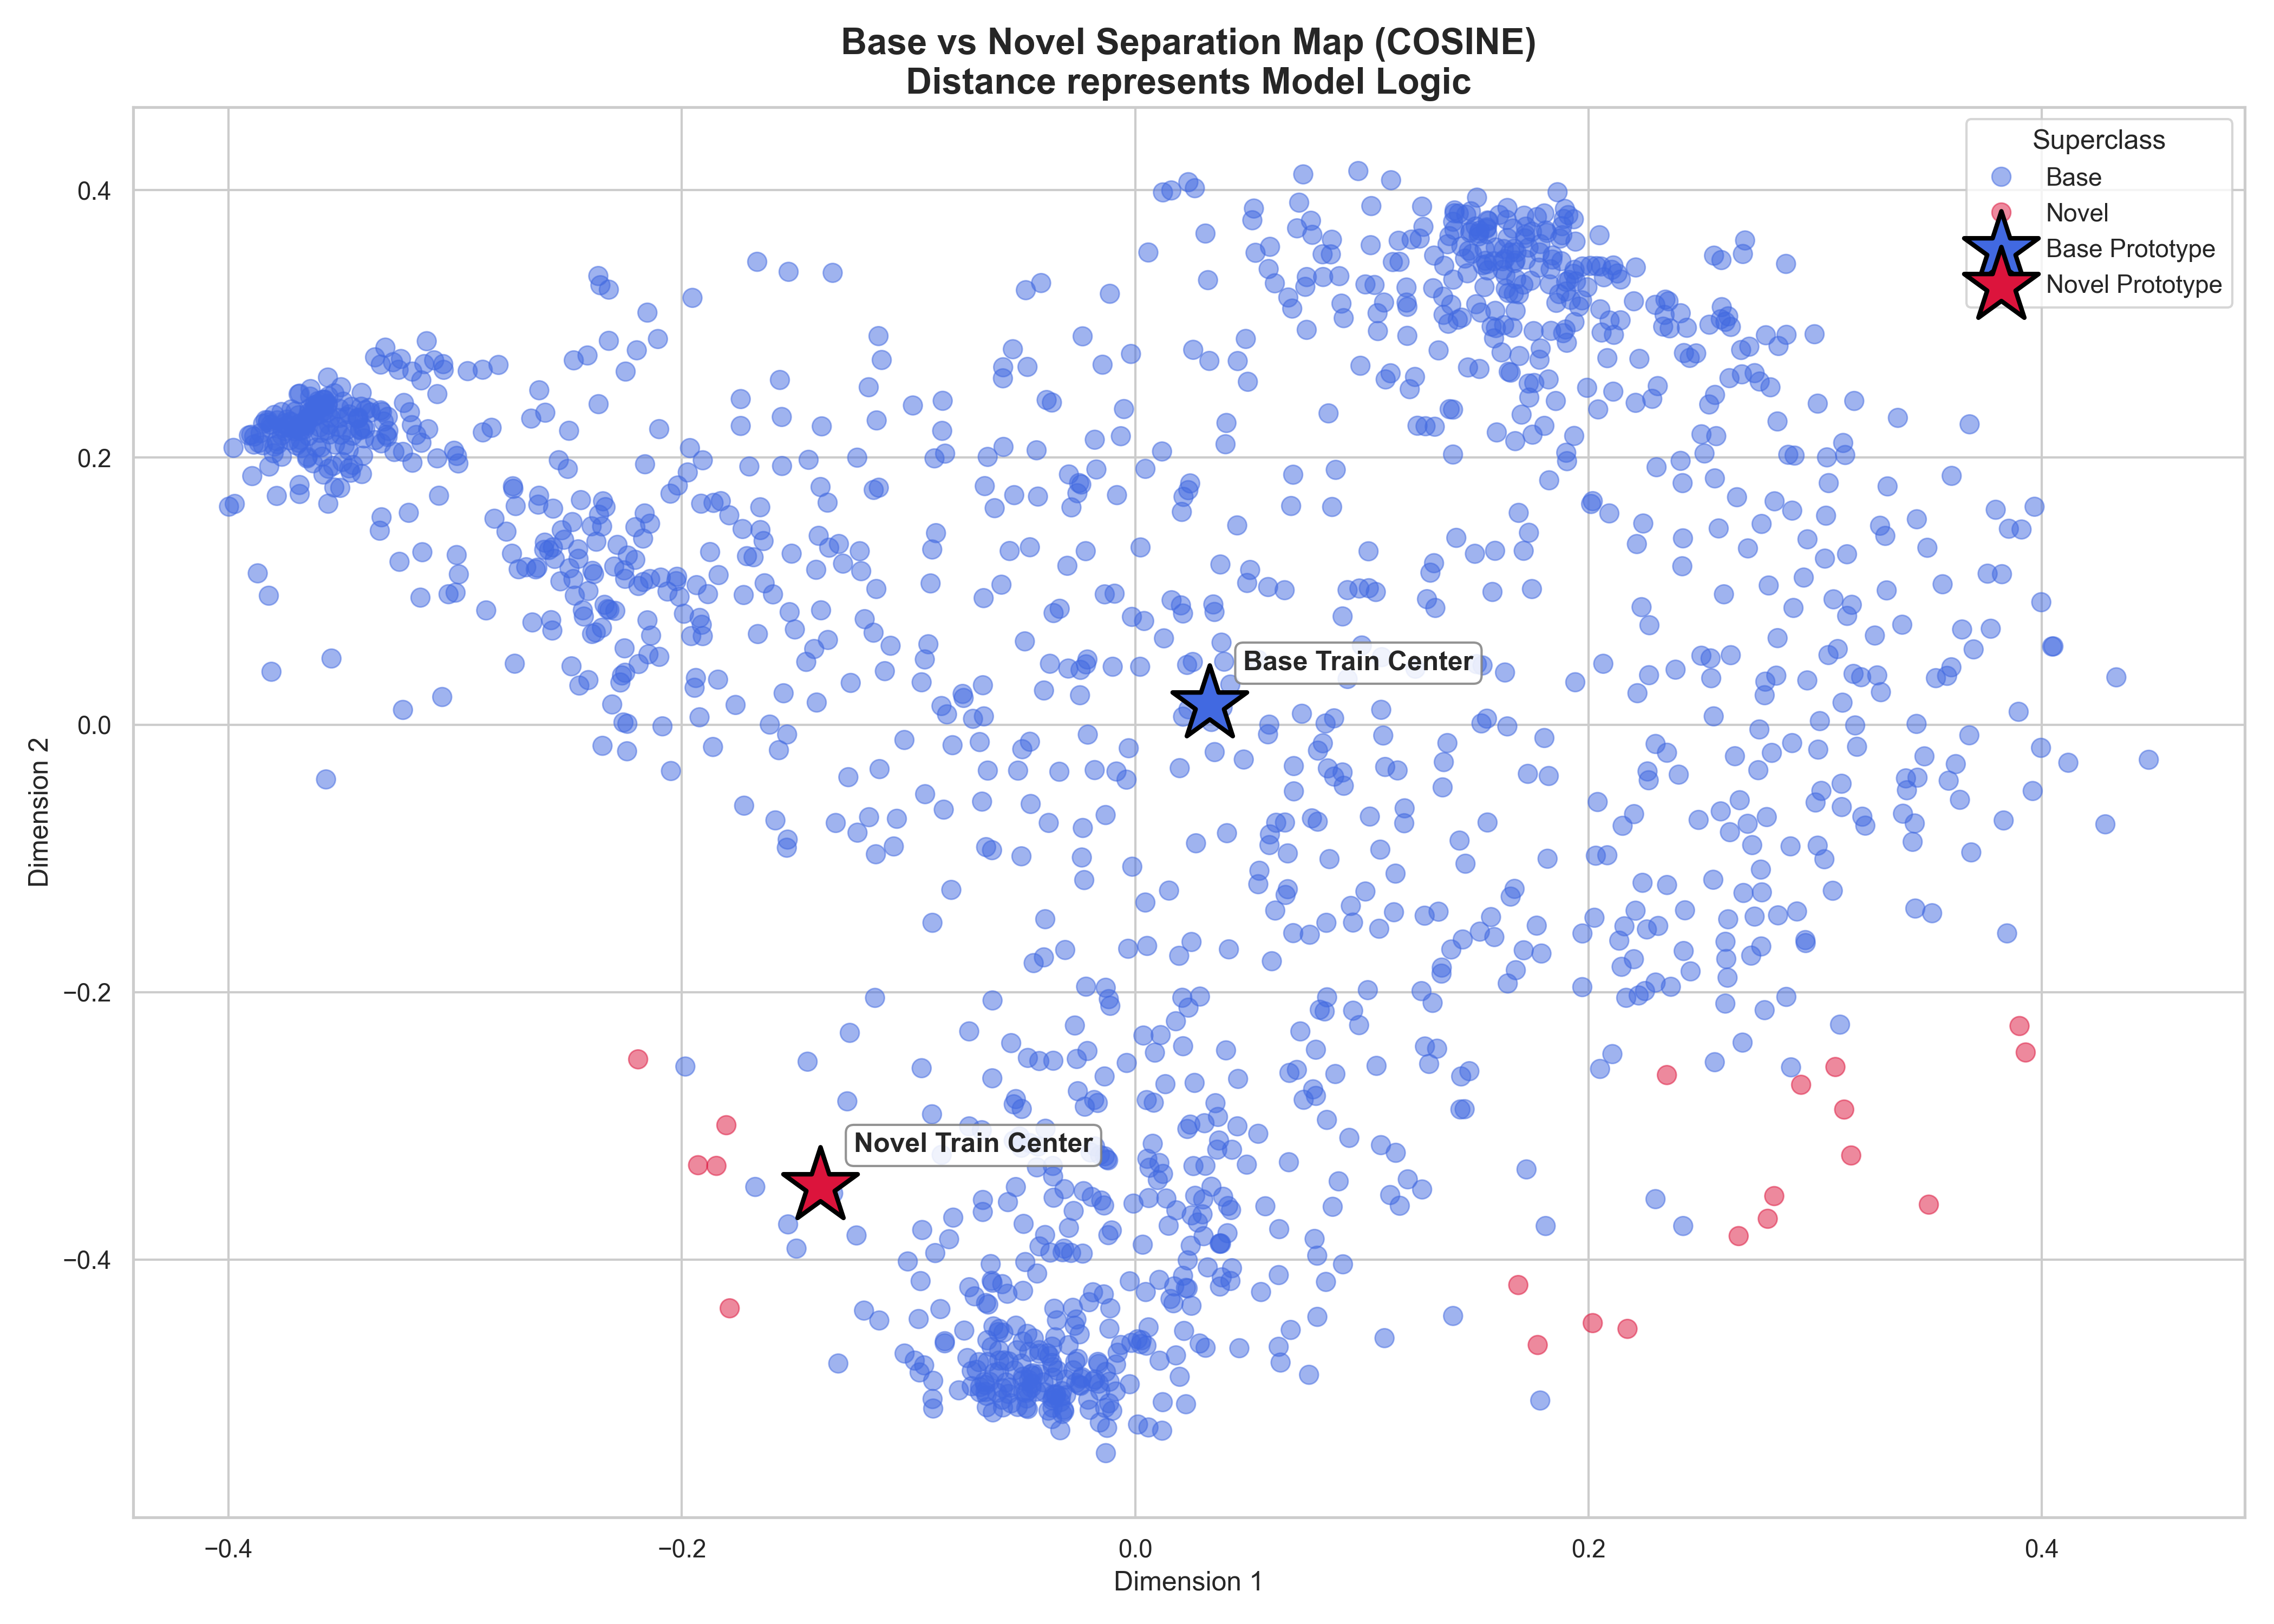
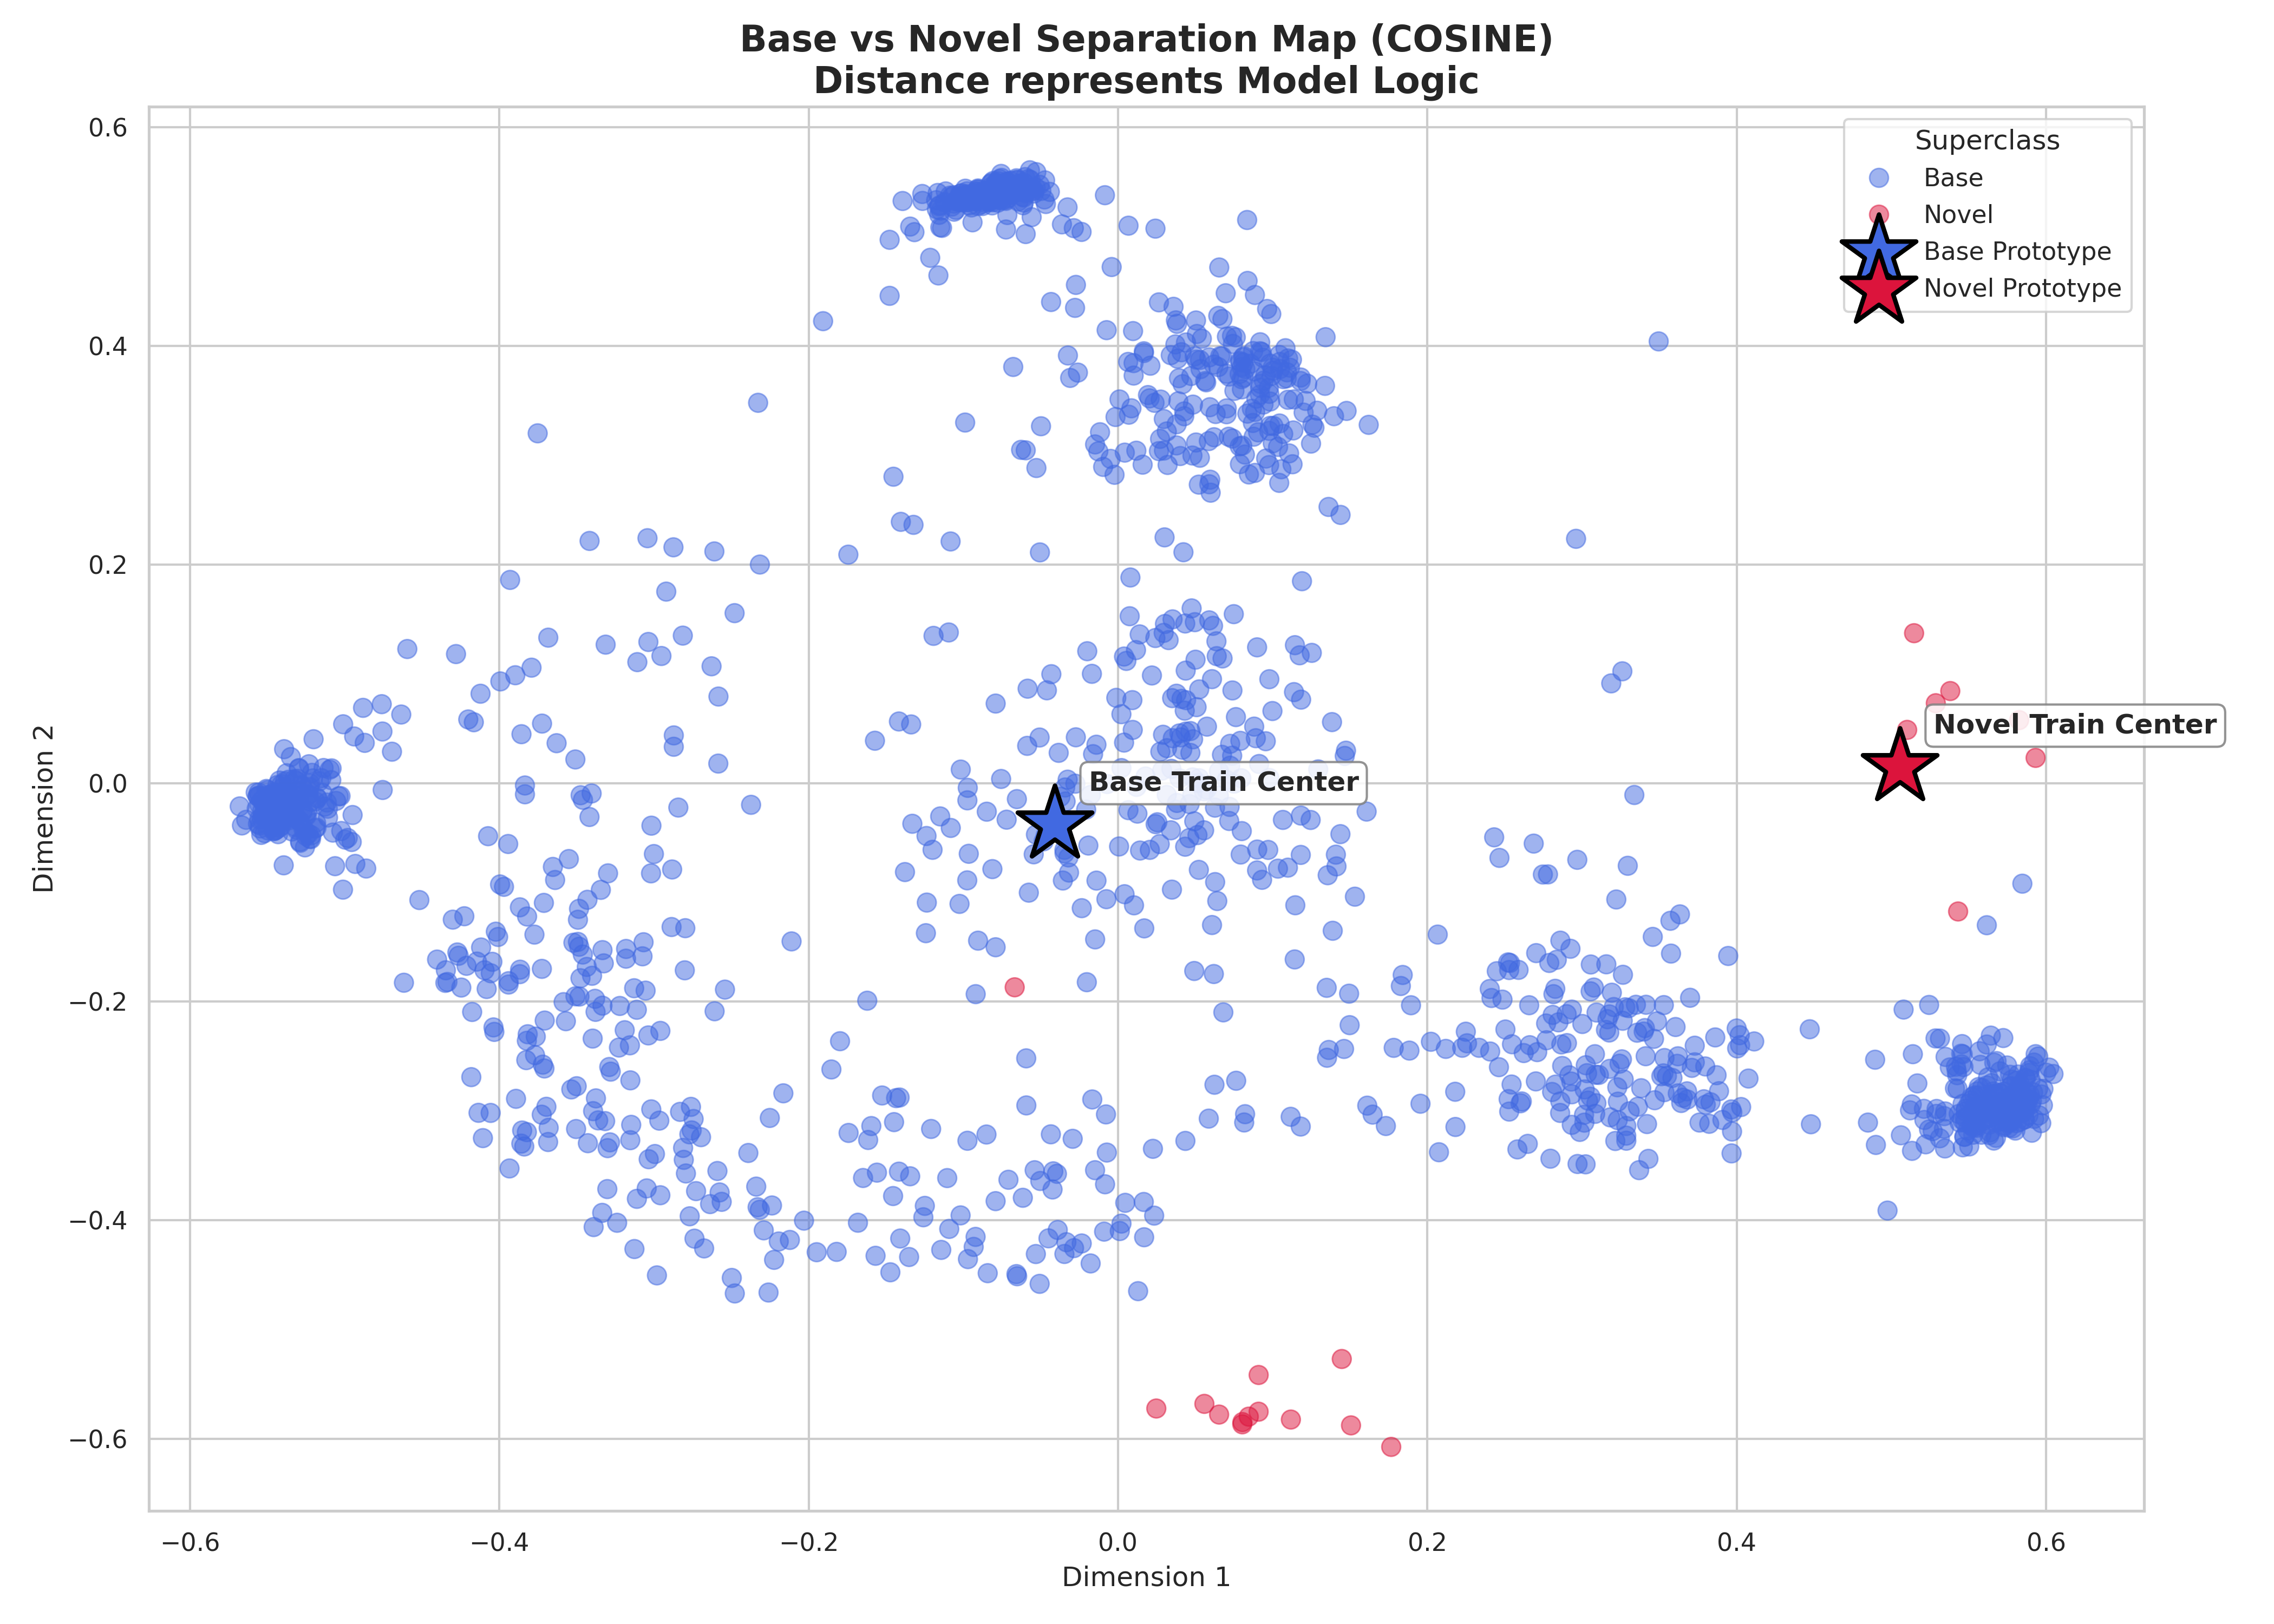
Changed: Standard Scaler ---> L2 Normalization, Adde Dropout to the MLP, MLP Output layer size from 256 ---> 128

diff --git a/Code/MLP_Classificator.py b/Code/MLP_Classificator.py
@@ -16,7 +16,7 @@ from torch.utils.data import DataLoader, TensorDataset
 
 import optuna
 
-from sklearn.preprocessing import StandardScaler, LabelEncoder
+from sklearn.preprocessing import StandardScaler, LabelEncoder, Normalizer
 from sklearn.decomposition import KernelPCA
 from sklearn.manifold import TSNE, MDS
 from sklearn.metrics import classification_report, f1_score, fbeta_score
@@ -55,7 +55,7 @@ def seed_everything(seed=42):
 # Global Configuration & Top-K / Distance Flags
 # ==========================================
 
-WORK_PLACE = 'yehud' # The place where I am working in: 'yehud' or 'matrix'
+WORK_PLACE = 'matrix' # The place where I am working in: 'yehud' or 'matrix'
 
 data_path = r'C:\Adams\FSOD\Data\Lavyanut\Lavyanut' if WORK_PLACE is 'yehud' else '/home/adamm/Documents/FSOD/Data/Lavyanut'
 
@@ -99,7 +99,7 @@ VISUALIZATION_SOURCE = 'train'
 
 Dataset_Name = 'Lavyanut'
 
-SHOTS = 20
+SHOTS = 5
 
 
 
@@ -133,16 +133,21 @@ class MLP_PyTorch(nn.Module):
     Input -> Linear(512) -> ReLU -> Linear(256) -> ReLU -> Linear(num_classes)
     """
     def __init__(self, input_dim, num_classes):
+        def __init__(self, input_dim, num_classes):
         super(MLP_PyTorch, self).__init__()
-        self.fc1 = nn.Linear(input_dim, 512)
-        self.fc2 = nn.Linear(512, 256)
-        self.fc3 = nn.Linear(256, num_classes)
+        self.fc1 = nn.Linear(input_dim, 256) # Reduced size
+        self.dropout1 = nn.Dropout(p=0.4)    # Added dropout
+        self.fc2 = nn.Linear(256, 128)       # Reduced size
+        self.dropout2 = nn.Dropout(p=0.4)    # Added dropout
+        self.fc3 = nn.Linear(128, num_classes)
 
-    def forward(self, x):
-        h1 = F.relu(self.fc1(x))
-        h2 = F.relu(self.fc2(h1))
-        logits = self.fc3(h2)
-        return logits, h2  # Returning h2 to extract the 256-D features easily
+        def forward(self, x):
+            h1 = F.relu(self.fc1(x))
+            h1 = self.dropout1(h1)
+            h2 = F.relu(self.fc2(h1))
+            h2_drop = self.dropout2(h2)
+            logits = self.fc3(h2_drop)
+            return logits, h2 # Still return pure h2 for metric distances
     
 
 class FocalLoss(nn.Module):
@@ -445,7 +450,8 @@ def main():
         X_train_scaled = scaler.fit_transform(X_train)
     else:
         print("\nNo saved model found. Preparing for Training...")
-        scaler = StandardScaler()
+        # scaler = StandardScaler()
+        scaler = Normalizer(norm='l2')
         X_train_scaled = scaler.fit_transform(X_train)
         X_test_scaled = scaler.transform(X_test) 
         

diff --git a/Preprocess_Codes/split_Lavyanut_train_test_dataset.py b/Preprocess_Codes/split_Lavyanut_train_test_dataset.py
@@ -59,6 +59,8 @@ def sanitize_filenames(directory):
 def split_dataset():
     # Create all target directories
     for d in[TRAIN_BASE_DIR, TRAIN_FORK_DIR, TRAIN_TRAIL_DIR, TEST_BASE_DIR, TEST_FORK_DIR, TEST_TRAIL_DIR]:
+        if os.path.exists(d):
+            shutil.rmtree(d)
         os.makedirs(d, exist_ok=True)
 
     # Dictionary to group files by image. Format:
@@ -270,7 +272,7 @@ CLASS_RENAME_MAP = {
 
 def rename_classes_in_files():
     print("Renaming files to clean up class names...")
-    files = glob.glob(os.path.join(SOURCE_DIR, '*.npy'))
+    files = sorted(glob.glob(os.path.join(SOURCE_DIR, '*.npy')))
     renamed_count = 0
     
     for filepath in files: